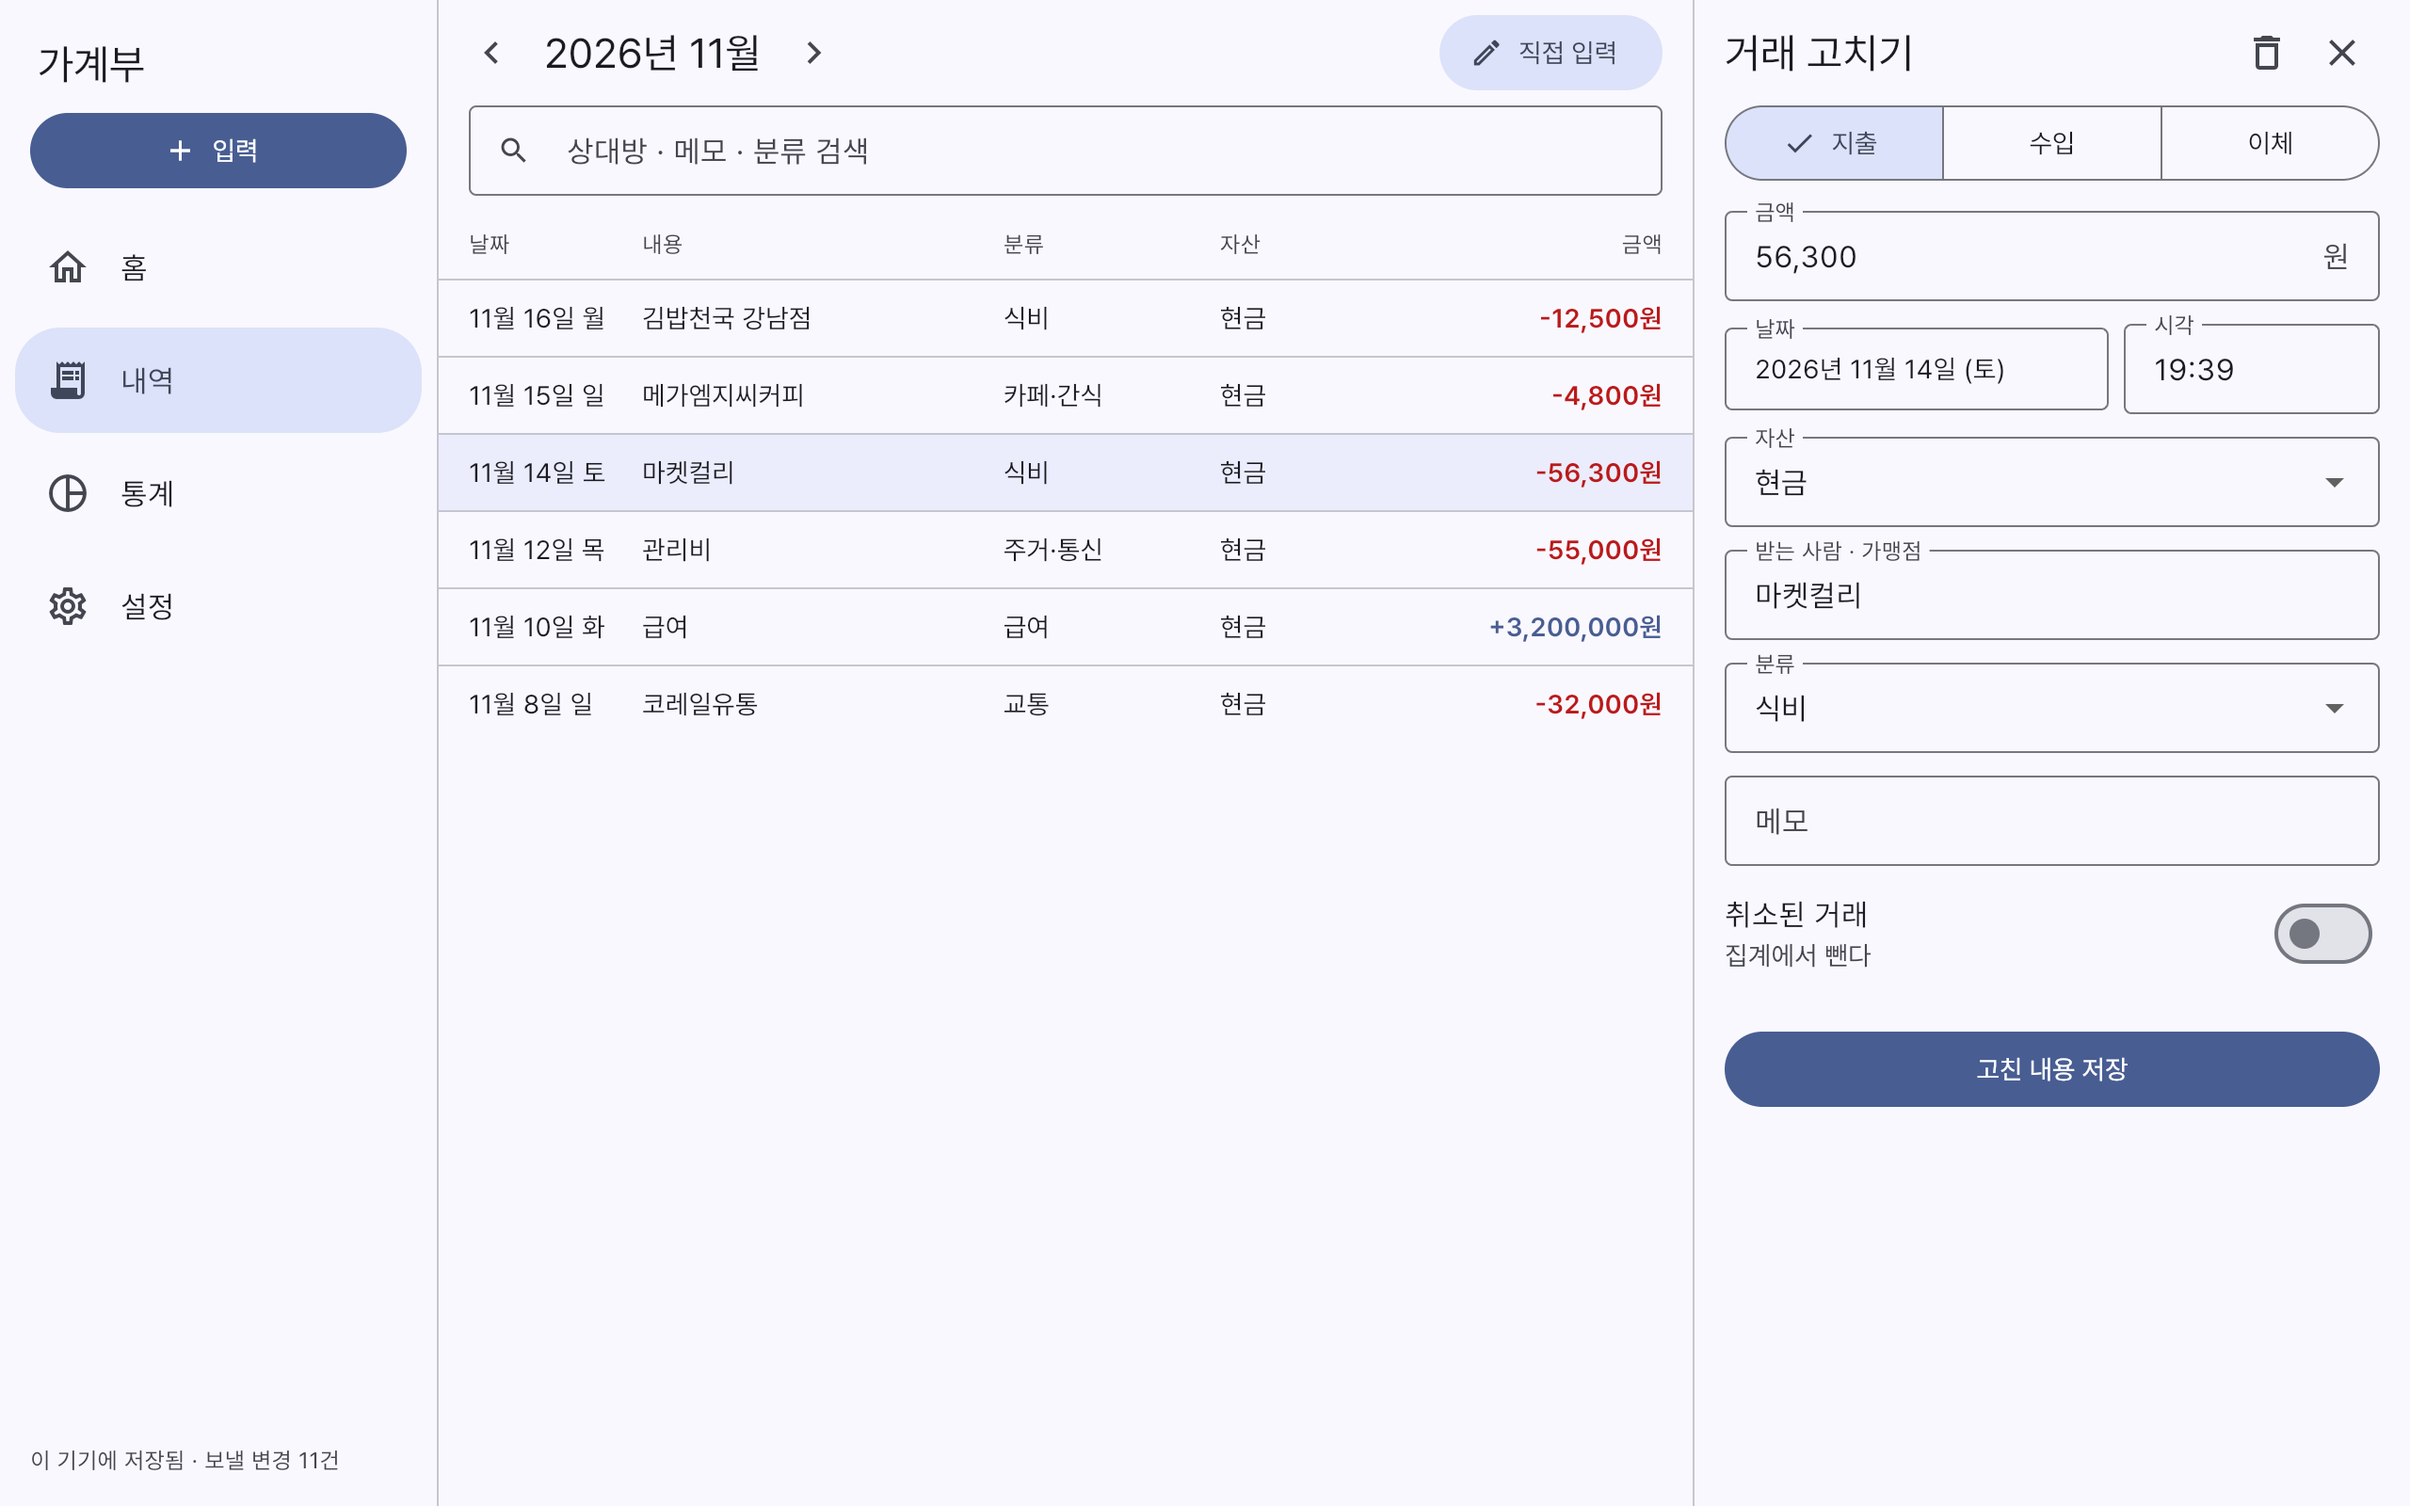
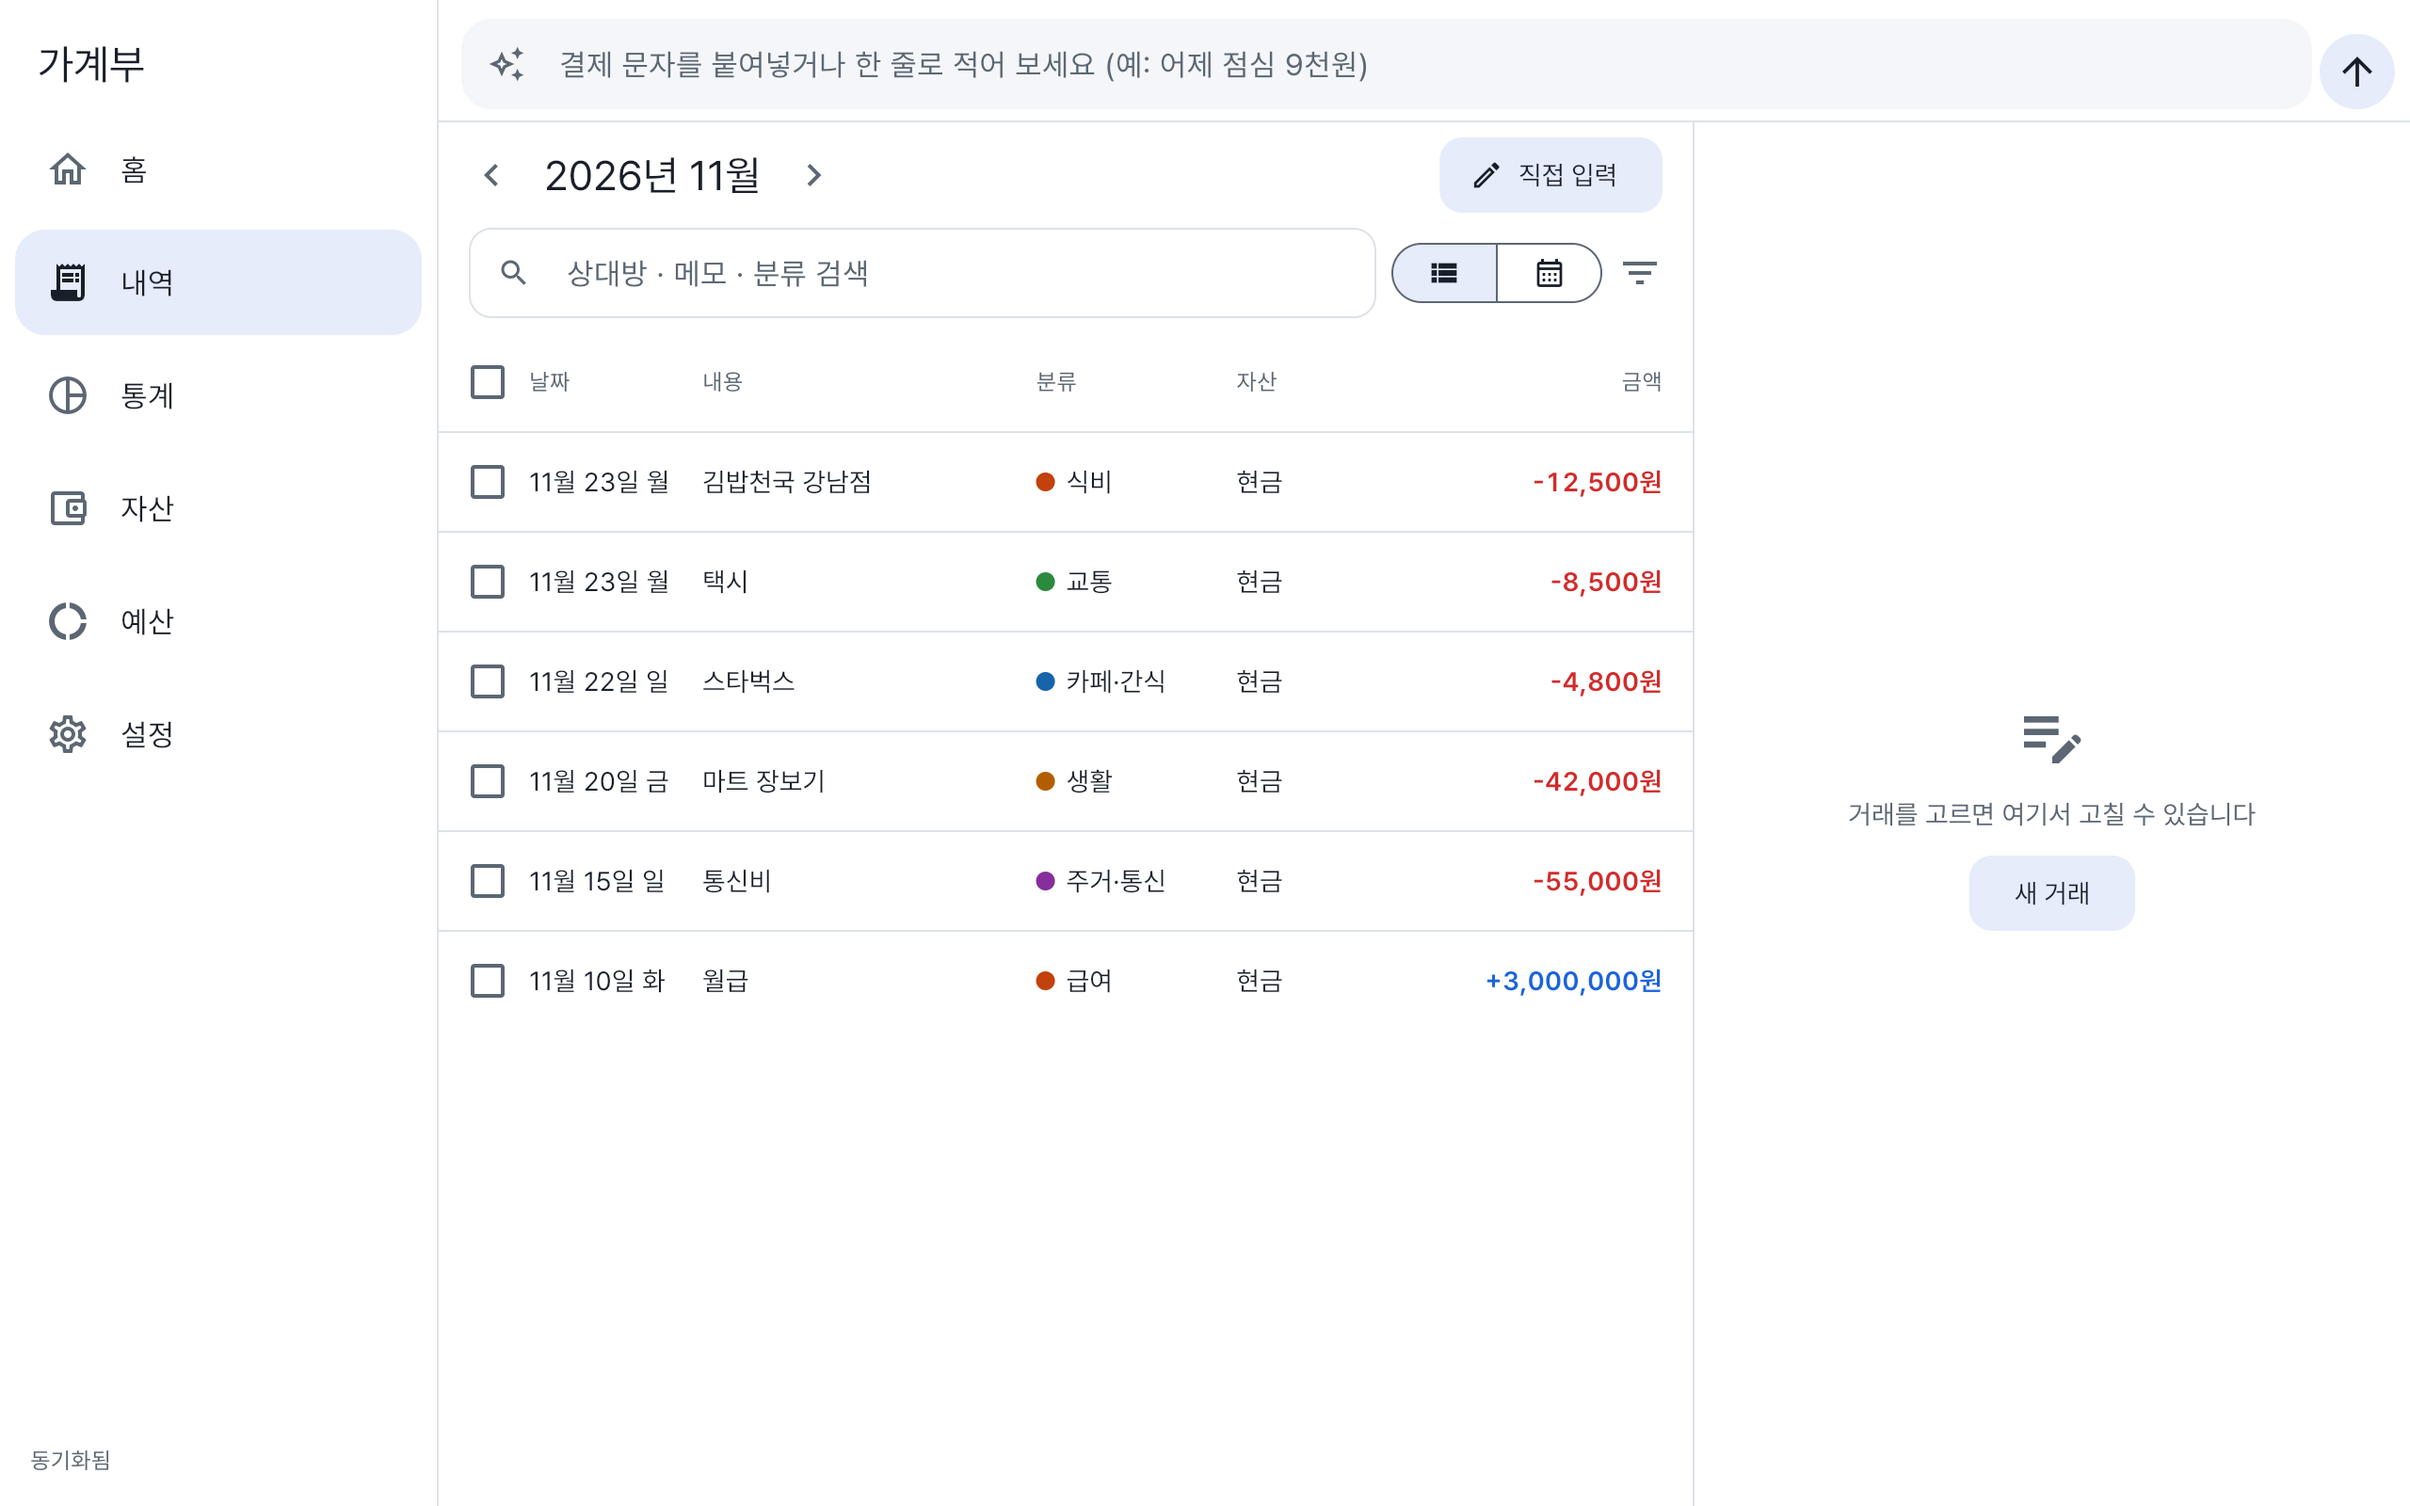
README의 화면 그림을 지금 화면으로 바꾼다
어디서도 쓰지 않는 옛 화면 그림 네 장은 지운다.

Claude-Session: https://claude.ai/code/session_01Y5ZEpLXoXMnR5BaYRv53Zi

diff --git a/README.md b/README.md
@@ -2,9 +2,9 @@
 
 문자와 문장으로 적는 가계부다. Windows · Android · 웹에서 같은 화면을 쓰고, 결제 문자와 한 줄 문장을 **기기 안에서** 해석해 거래로 옮긴다. iPhone · iPad · Mac은 웹 앱으로 쓴다.
 
-| 휴대폰 | 검토 카드 | PC |
+| 휴대폰 | 검토함 | PC |
 | --- | --- | --- |
-| ![홈](docs/screenshots/phone-home.png) | ![검토 카드](docs/screenshots/phone-review.png) | ![내역](docs/screenshots/desktop-transactions.png) |
+| ![홈](docs/screenshots/phone-home.png) | ![검토함](docs/screenshots/phone-review.png) | ![내역](docs/screenshots/desktop-transactions.png) |
 
 ## 지금 상태
 
